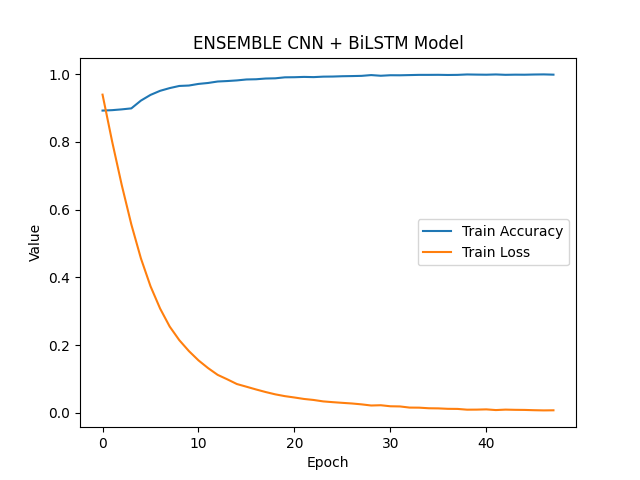
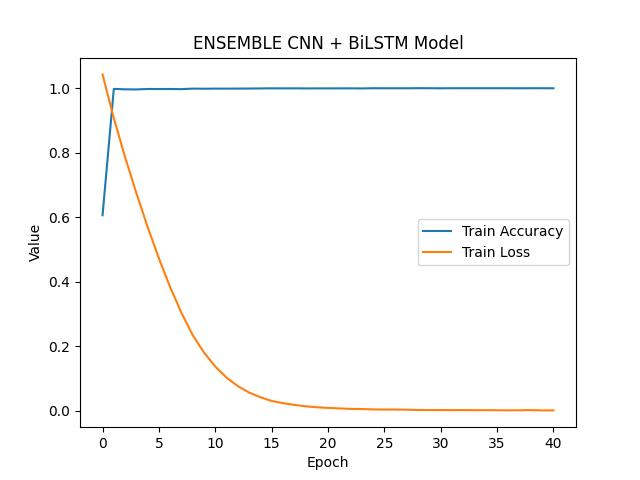
updte

diff --git a/phobert_we/sentimentModel.py b/phobert_we/sentimentModel.py
@@ -25,53 +25,53 @@ title_train_ids, text_train_ids, train_labels, title_val_ids, text_val_ids, val_
 
 # MODEL IMPLEMENTATION AND TRAINING
 def startLearning():
-  # print('TRAINING USING CNN MODEL.......................')
-  # cnn = CNN(
-  #   title_train_ids,
-  #   text_train_ids,
-  #   train_labels,
-  #   title_val_ids,
-  #   text_val_ids,
-  #   val_labels,
-  # )
-  #
-  # cnn_model = cnn.trainModel()
-  # cnn.testModel(
-  #   [np.array(title_test_ids), np.array(text_test_ids)], 
-  #   np.array(test_labels)
-  # )
-  
-  # print('TRAINING USING BiLSTM MODEL......................')
-  # bilstm = BiLSTM(
-  #   title_train_ids,
-  #   text_train_ids,
-  #   train_labels,
-  #   title_val_ids,
-  #   text_val_ids,
-  #   val_labels,
-  # )
-  #
-  # bilstm_model = bilstm.trainModel()
-  # bilstm.testModel(
-  #   [np.array(title_test_ids), np.array(text_test_ids)], 
-  #   np.array(test_labels)
-  # )
-  
-    # print('TRAINING USING ENSEMBLE CNN + BiLSTM MODEL.................')
-    # ensemble_cnn_bilstm = Ensemble_CNN_BILSTM(
-    #     title_train_ids,
-    #     text_train_ids,
-    #     train_labels,
-    #     title_val_ids,
-    #     text_val_ids,
-    #     val_labels,
-    # )
-    #
-    # ensemble_cnn_bilstm.trainModel()
-    # ensemble_cnn_bilstm.testModel(
-    #     [np.array(title_test_ids), np.array(text_test_ids)], 
-    #     np.array(test_labels)
-    # )
+    print('TRAINING USING CNN MODEL.......................')
+    cnn = CNN(
+    title_train_ids,
+    text_train_ids,
+    train_labels,
+    title_val_ids,
+    text_val_ids,
+    val_labels,
+    )
+
+    cnn_model = cnn.trainModel()
+    cnn.testModel(
+    [np.array(title_test_ids), np.array(text_test_ids)], 
+    np.array(test_labels)
+    )
+
+    print('TRAINING USING BiLSTM MODEL......................')
+    bilstm = BiLSTM(
+    title_train_ids,
+    text_train_ids,
+    train_labels,
+    title_val_ids,
+    text_val_ids,
+    val_labels,
+    )
+
+    bilstm_model = bilstm.trainModel()
+    bilstm.testModel(
+    [np.array(title_test_ids), np.array(text_test_ids)], 
+    np.array(test_labels)
+    )
+
+    print('TRAINING USING ENSEMBLE CNN + BiLSTM MODEL.................')
+    ensemble_cnn_bilstm = Ensemble_CNN_BILSTM(
+        title_train_ids,
+        text_train_ids,
+        train_labels,
+        title_val_ids,
+        text_val_ids,
+        val_labels,
+    )
+
+    ensemble_cnn_bilstm.trainModel()
+    ensemble_cnn_bilstm.testModel(
+        [np.array(title_test_ids), np.array(text_test_ids)], 
+        np.array(test_labels)
+    )
 
     print('TRAINING USING FUSION CNN + BiLSTM MODEL.................')
     fusion_cnn_bilstm = Fusion_CNN_BILSTM(

diff --git a/phobert_we/phoBERTEmbedding.py b/phobert_we/phoBERTEmbedding.py
@@ -15,8 +15,8 @@ from fairseq.data import Dictionary
 import argparse
 import pandas as pd
 import torch
-from phobert_we.constants import *
-from phobert_we.Nomarlize import normalizeSentence, statusToNumber
+from constants import *
+from Nomarlize import normalizeSentence, statusToNumber
 import numpy as np
 from transformers import AutoModel, TFAutoModel, AutoTokenizer
 import tensorflow as tf

diff --git a/phobert_we/__init__.py b/phobert_we/__init__.py
@@ -1,5 +1,5 @@
 import tensorflow as tf
-# from sentimentModel import startLearning
+from sentimentModel import startLearning
 
 def checkForGPU():
     if tf.test.is_gpu_available():
@@ -9,4 +9,4 @@ def checkForGPU():
 
 if __name__ == '__main__':
     checkForGPU()
-    # startLearning()
+    startLearning()

diff --git a/phobert_we/Nomarlize.py b/phobert_we/Nomarlize.py
@@ -1,5 +1,5 @@
 import re
-from phobert_we.constants import PATH
+from constants import PATH
 import pandas as pd
 
 stopword = pd.read_csv(PATH + 'stopword.csv')
